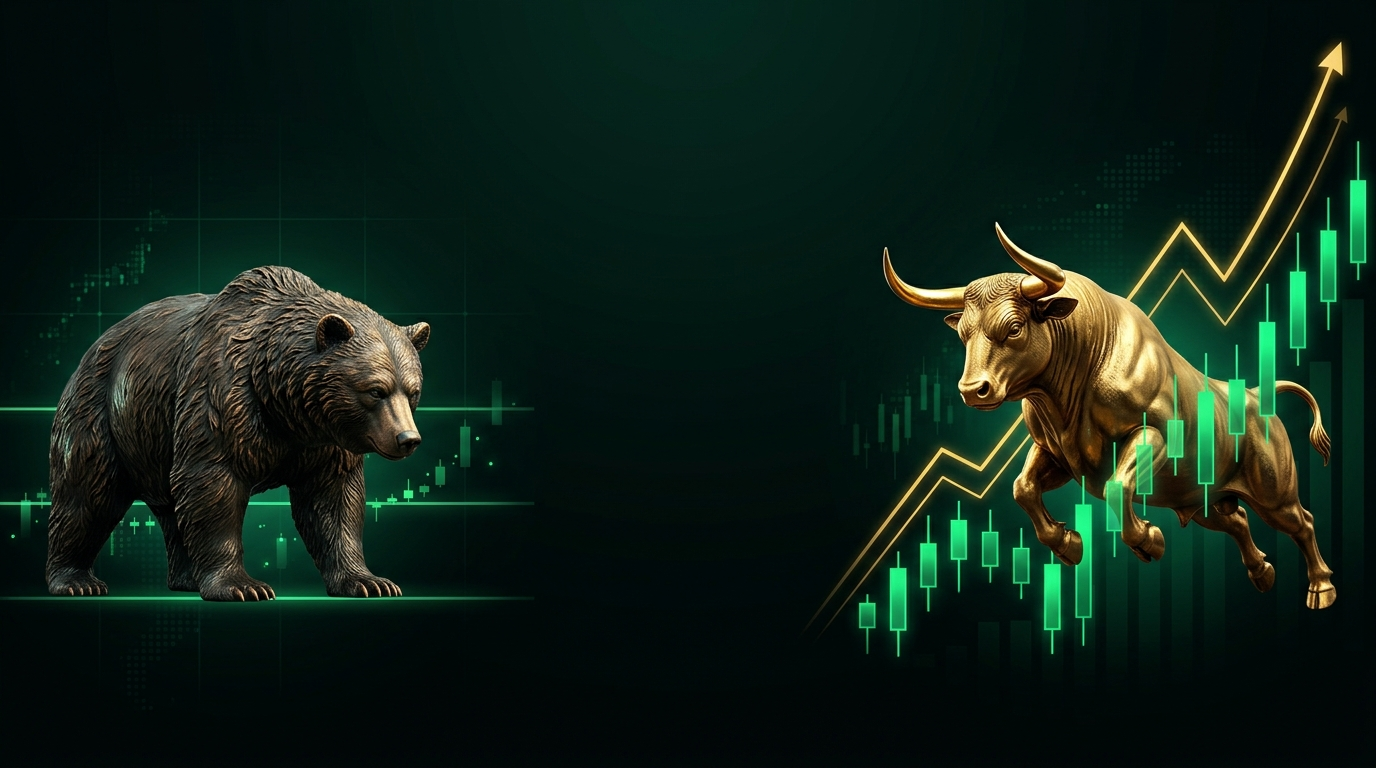
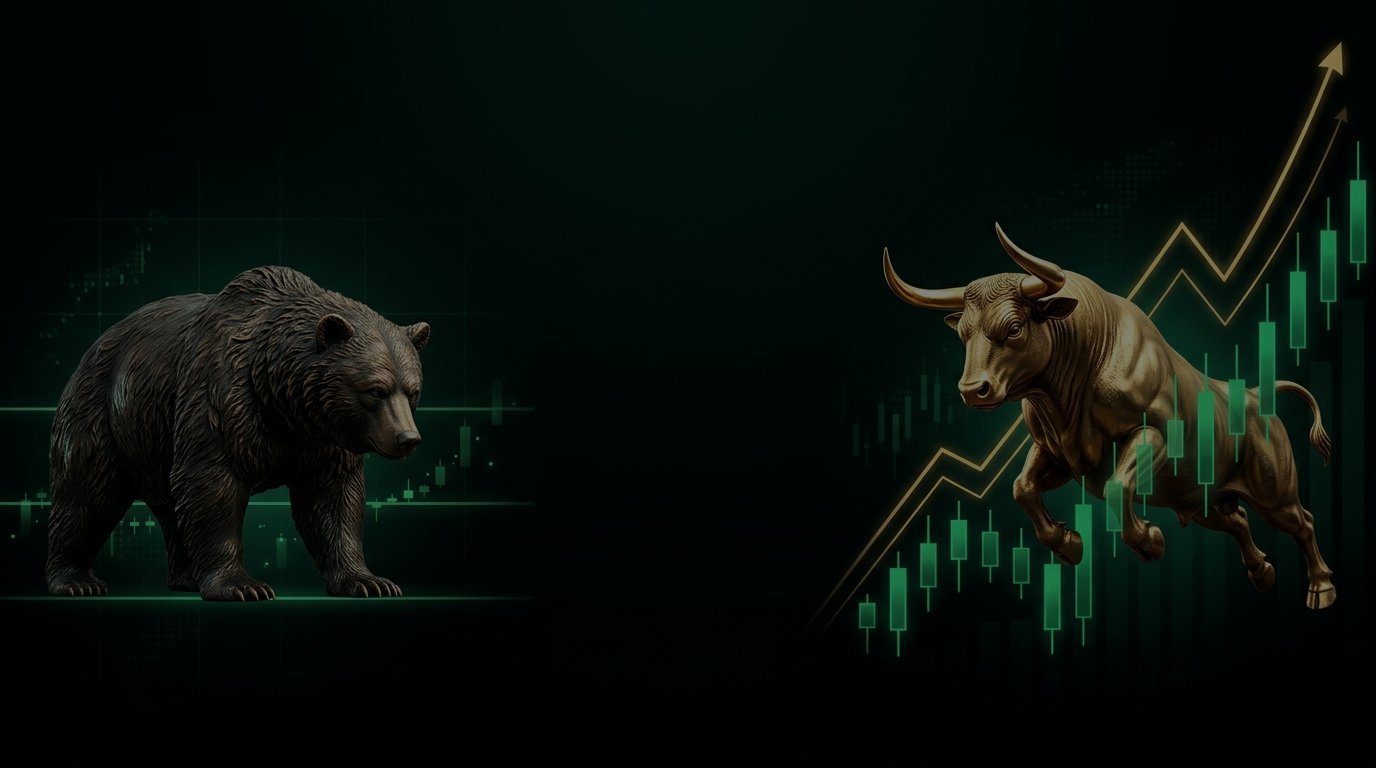
style(email): tone down background brightness and make card 100% opaque for optimal text readability

diff --git a/backend/src/templates/welcome-email.js b/backend/src/templates/welcome-email.js
@@ -34,7 +34,7 @@ function planLabel(planType) {
   }
 }
 
-const DEFAULT_BG_URL = 'https://files.catbox.moe/o8u8uz.jpg';
+const DEFAULT_BG_URL = 'https://files.catbox.moe/r0yq77.jpg';
 
 function renderWelcomeEmail({ displayName, email, planType, appUrl, backgroundUrl, bannerUrl }) {
   const safeName = escapeHtml(displayName || 'Trader');
@@ -57,12 +57,12 @@ function renderWelcomeEmail({ displayName, email, planType, appUrl, backgroundUr
   </style>
   <![endif]-->
 </head>
-<body style="margin:0;padding:0;background-color:#020f0a;background-image:url('${finalBgUrl}');background-repeat:no-repeat;background-position:center top;background-size:cover;color:#e9f5ed;font-family:-apple-system,BlinkMacSystemFont,'Segoe UI',Roboto,Helvetica,Arial,sans-serif;-webkit-font-smoothing:antialiased;line-height:1.6;">
-  <table role="presentation" width="100%" cellspacing="0" cellpadding="0" border="0" background="${finalBgUrl}" style="background-color:#020f0a;background-image:url('${finalBgUrl}');background-repeat:no-repeat;background-position:center top;background-size:cover;padding:48px 15px;">
+<body style="margin:0;padding:0;background-color:#010a07;background-image:url('${finalBgUrl}');background-repeat:no-repeat;background-position:center top;background-size:cover;color:#e9f5ed;font-family:-apple-system,BlinkMacSystemFont,'Segoe UI',Roboto,Helvetica,Arial,sans-serif;-webkit-font-smoothing:antialiased;line-height:1.6;">
+  <table role="presentation" width="100%" cellspacing="0" cellpadding="0" border="0" background="${finalBgUrl}" style="background-color:#010a07;background-image:url('${finalBgUrl}');background-repeat:no-repeat;background-position:center top;background-size:cover;padding:48px 15px;">
     <tr>
       <td align="center" background="${finalBgUrl}" style="background-image:url('${finalBgUrl}');background-repeat:no-repeat;background-position:center top;background-size:cover;">
-        <!-- Card Principal -->
-        <table role="presentation" width="100%" cellspacing="0" cellpadding="0" border="0" style="max-width:620px;background:linear-gradient(160deg,rgba(7,31,22,0.94) 0%,rgba(3,19,13,0.97) 100%);border:1px solid rgba(52,211,153,0.3);border-radius:18px;overflow:hidden;box-shadow:0 20px 50px rgba(0,0,0,0.7);">
+        <!-- Card Principal (100% Sólido e Opaco para máxima legibilidade do texto) -->
+        <table role="presentation" width="100%" cellspacing="0" cellpadding="0" border="0" style="max-width:620px;background:#04150e;background:linear-gradient(160deg,#061f15 0%,#03120c 100%);border:1px solid rgba(52,211,153,0.3);border-radius:18px;overflow:hidden;box-shadow:0 24px 60px rgba(0,0,0,0.85);">
           
           <!-- Top Accent Bar -->
           <tr>
@@ -100,7 +100,7 @@ function renderWelcomeEmail({ displayName, email, planType, appUrl, backgroundUr
               </p>
 
               <!-- Bloco Destaque / Filosofia -->
-              <table role="presentation" width="100%" cellspacing="0" cellpadding="0" border="0" style="margin:0 0 24px 0;background:rgba(223,189,95,0.06);border-left:3px solid #dfbd5f;border-radius:0 10px 10px 0;">
+              <table role="presentation" width="100%" cellspacing="0" cellpadding="0" border="0" style="margin:0 0 24px 0;background:#091911;border-left:3px solid #dfbd5f;border-radius:0 10px 10px 0;">
                 <tr>
                   <td style="padding:14px 18px;">
                     <p style="margin:0;color:#e8ddb5;font-size:13px;font-style:italic;line-height:1.5;">
@@ -111,7 +111,7 @@ function renderWelcomeEmail({ displayName, email, planType, appUrl, backgroundUr
               </table>
 
               <!-- Detalhes da Conta -->
-              <table role="presentation" width="100%" cellspacing="0" cellpadding="0" border="0" style="margin:0 0 26px 0;background:#03150e;border:1px solid #1a4230;border-radius:12px;padding:14px 18px;">
+              <table role="presentation" width="100%" cellspacing="0" cellpadding="0" border="0" style="margin:0 0 26px 0;background:#03130c;border:1px solid #1a4230;border-radius:12px;padding:14px 18px;">
                 <tr>
                   <td>
                     <div style="font-size:10px;font-weight:800;color:#789081;text-transform:uppercase;letter-spacing:0.1em;margin-bottom:6px;">DADOS DA SUA CONTA</div>
@@ -129,7 +129,7 @@ function renderWelcomeEmail({ displayName, email, planType, appUrl, backgroundUr
               <table role="presentation" width="100%" cellspacing="0" cellpadding="0" border="0" style="margin-bottom:28px;">
                 <tr>
                   <td style="padding-bottom:10px;">
-                    <table role="presentation" width="100%" cellspacing="0" cellpadding="0" border="0" style="background:rgba(6,32,22,0.85);border:1px solid rgba(41,126,77,0.45);border-radius:10px;padding:12px 16px;">
+                    <table role="presentation" width="100%" cellspacing="0" cellpadding="0" border="0" style="background:#051a12;border:1px solid rgba(41,126,77,0.45);border-radius:10px;padding:12px 16px;">
                       <tr>
                         <td width="32" valign="top" style="font-size:18px;line-height:1;">🚦</td>
                         <td style="padding-left:10px;">
@@ -145,7 +145,7 @@ function renderWelcomeEmail({ displayName, email, planType, appUrl, backgroundUr
 
                 <tr>
                   <td style="padding-bottom:10px;">
-                    <table role="presentation" width="100%" cellspacing="0" cellpadding="0" border="0" style="background:rgba(6,32,22,0.85);border:1px solid rgba(41,126,77,0.45);border-radius:10px;padding:12px 16px;">
+                    <table role="presentation" width="100%" cellspacing="0" cellpadding="0" border="0" style="background:#051a12;border:1px solid rgba(41,126,77,0.45);border-radius:10px;padding:12px 16px;">
                       <tr>
                         <td width="32" valign="top" style="font-size:18px;line-height:1;">⚖</td>
                         <td style="padding-left:10px;">
@@ -161,7 +161,7 @@ function renderWelcomeEmail({ displayName, email, planType, appUrl, backgroundUr
 
                 <tr>
                   <td style="padding-bottom:10px;">
-                    <table role="presentation" width="100%" cellspacing="0" cellpadding="0" border="0" style="background:rgba(6,32,22,0.85);border:1px solid rgba(41,126,77,0.45);border-radius:10px;padding:12px 16px;">
+                    <table role="presentation" width="100%" cellspacing="0" cellpadding="0" border="0" style="background:#051a12;border:1px solid rgba(41,126,77,0.45);border-radius:10px;padding:12px 16px;">
                       <tr>
                         <td width="32" valign="top" style="font-size:18px;line-height:1;">🎯</td>
                         <td style="padding-left:10px;">
@@ -177,7 +177,7 @@ function renderWelcomeEmail({ displayName, email, planType, appUrl, backgroundUr
 
                 <tr>
                   <td>
-                    <table role="presentation" width="100%" cellspacing="0" cellpadding="0" border="0" style="background:rgba(6,32,22,0.85);border:1px solid rgba(41,126,77,0.45);border-radius:10px;padding:12px 16px;">
+                    <table role="presentation" width="100%" cellspacing="0" cellpadding="0" border="0" style="background:#051a12;border:1px solid rgba(41,126,77,0.45);border-radius:10px;padding:12px 16px;">
                       <tr>
                         <td width="32" valign="top" style="font-size:18px;line-height:1;">📖</td>
                         <td style="padding-left:10px;">
